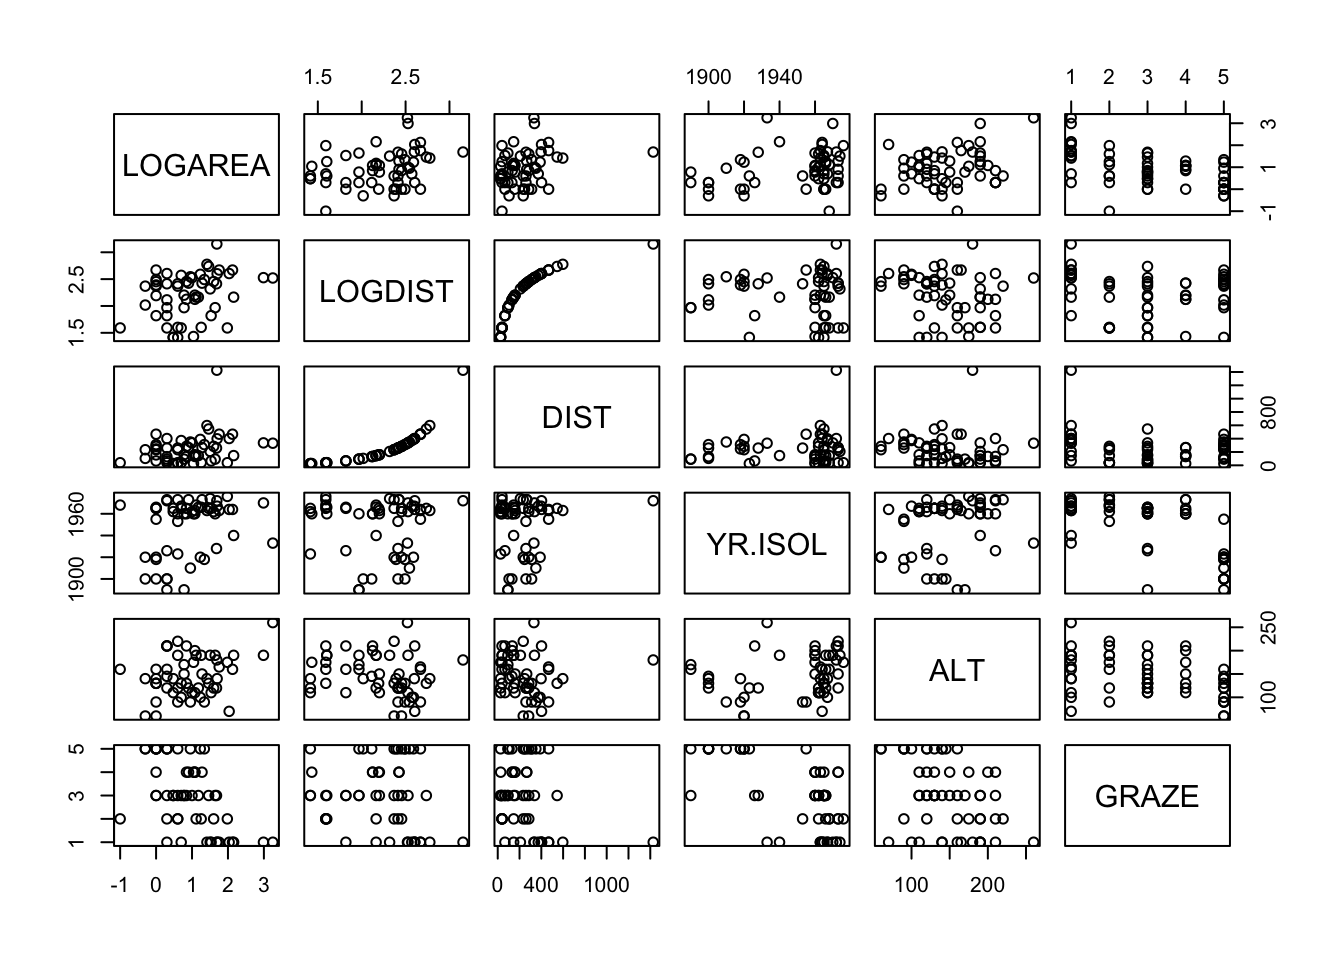
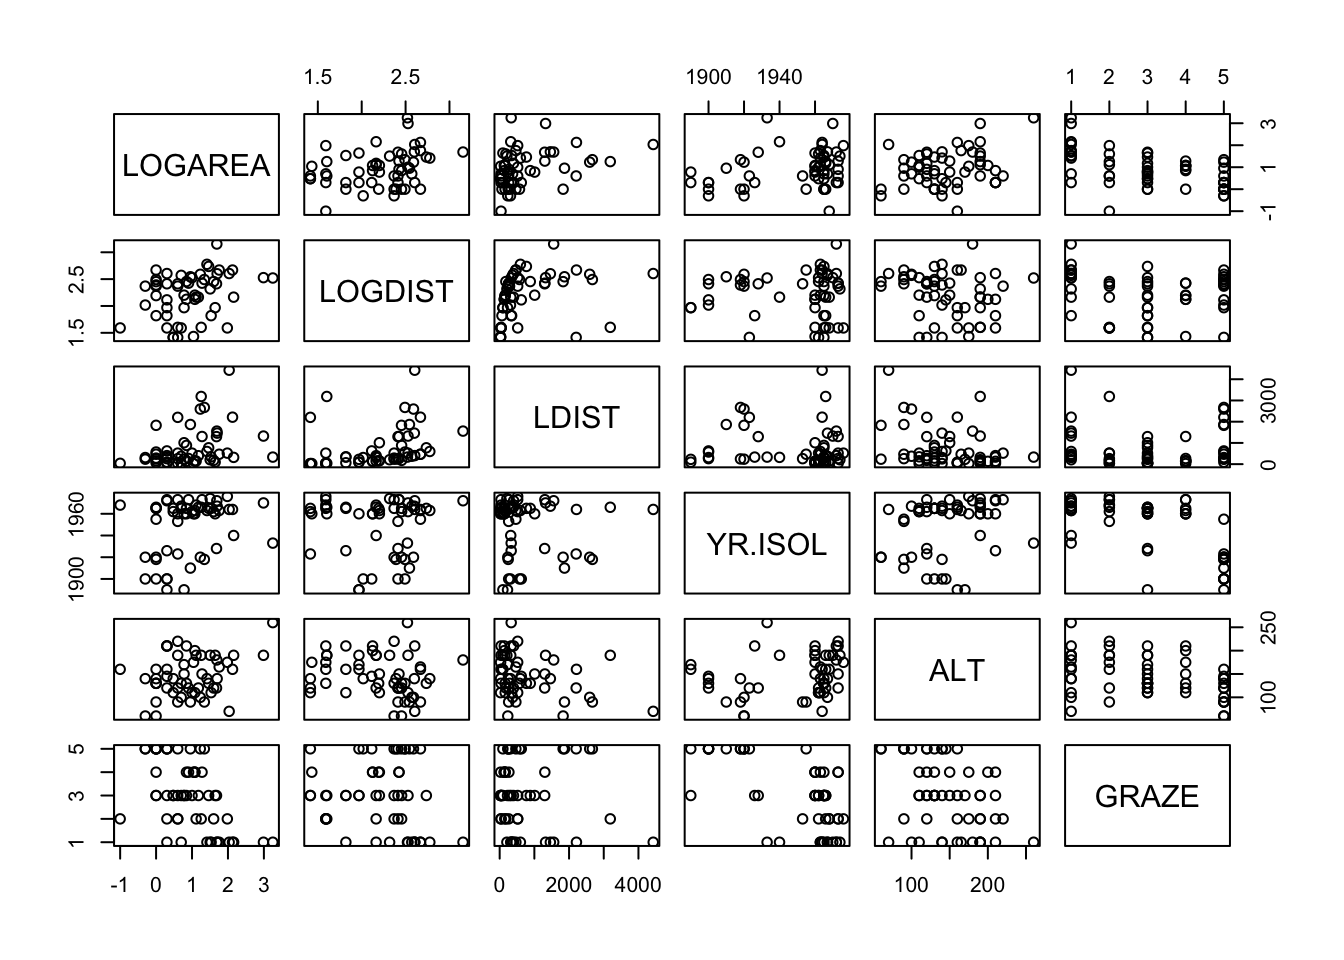
retry fixing Q9 GDE solutions

diff --git a/graphical_data_exploration_exercise_solutions.html b/graphical_data_exploration_exercise_solutions.html
@@ -704,14 +704,14 @@ $(document).ready(function () {
 <p> </p>
 <div class="sourceCode" id="cb7"><pre class="sourceCode r"><code class="sourceCode r"><span id="cb7-1"><a href="#cb7-1"></a><span class="co"># Vanilla pairs plot</span></span>
 <span id="cb7-2"><a href="#cb7-2"></a></span>
-<span id="cb7-3"><a href="#cb7-3"></a><span class="kw">pairs</span>(loyn[,<span class="kw">c</span>(<span class="st">&quot;LOGAREA&quot;</span>,<span class="st">&quot;LOGDIST&quot;</span>,<span class="st">&quot;DIST&quot;</span>,</span>
-<span id="cb7-4"><a href="#cb7-4"></a>               <span class="st">&quot;YR.ISOL&quot;</span>,<span class="st">&quot;ALT&quot;</span>,<span class="st">&quot;GRAZE&quot;</span>)])</span>
+<span id="cb7-3"><a href="#cb7-3"></a><span class="kw">pairs</span>(loyn[,<span class="kw">c</span>(<span class="st">&quot;LOGAREA&quot;</span>, <span class="st">&quot;LOGDIST&quot;</span>, <span class="st">&quot;LDIST&quot;</span>,</span>
+<span id="cb7-4"><a href="#cb7-4"></a>               <span class="st">&quot;YR.ISOL&quot;</span>, <span class="st">&quot;ALT&quot;</span>, <span class="st">&quot;GRAZE&quot;</span>)])</span>
 <span id="cb7-5"><a href="#cb7-5"></a></span>
 <span id="cb7-6"><a href="#cb7-6"></a><span class="co"># or first create a new dataframe and then use this </span></span>
 <span id="cb7-7"><a href="#cb7-7"></a><span class="co"># data frame with the pairs function</span></span>
 <span id="cb7-8"><a href="#cb7-8"></a></span>
-<span id="cb7-9"><a href="#cb7-9"></a>explan_vars &lt;-<span class="st"> </span>loyn[,<span class="kw">c</span>(<span class="st">&quot;LOGAREA&quot;</span>,<span class="st">&quot;LOGDIST&quot;</span>,<span class="st">&quot;DIST&quot;</span>,</span>
-<span id="cb7-10"><a href="#cb7-10"></a>               <span class="st">&quot;YR.ISOL&quot;</span>,<span class="st">&quot;ALT&quot;</span>,<span class="st">&quot;GRAZE&quot;</span>)]</span>
+<span id="cb7-9"><a href="#cb7-9"></a>explan_vars &lt;-<span class="st"> </span>loyn[,<span class="kw">c</span>(<span class="st">&quot;LOGAREA&quot;</span>, <span class="st">&quot;LOGDIST&quot;</span>, <span class="st">&quot;LDIST&quot;</span>,</span>
+<span id="cb7-10"><a href="#cb7-10"></a>               <span class="st">&quot;YR.ISOL&quot;</span>, <span class="st">&quot;ALT&quot;</span>, <span class="st">&quot;GRAZE&quot;</span>)]</span>
 <span id="cb7-11"><a href="#cb7-11"></a><span class="kw">pairs</span>(explan_vars)</span></code></pre></div>
 <p><img src="graphical_data_exploration_exercise_solutions_files/figure-html/Q9a-1.png" width="672" /></p>
 <p> </p>
@@ -729,14 +729,14 @@ $(document).ready(function () {
 <span id="cb8-12"><a href="#cb8-12"></a>}</span>
 <span id="cb8-13"><a href="#cb8-13"></a></span>
 <span id="cb8-14"><a href="#cb8-14"></a><span class="co"># then use the panel.cor function when we use pairs</span></span>
-<span id="cb8-15"><a href="#cb8-15"></a><span class="kw">pairs</span>(loyn[,<span class="kw">c</span>(<span class="st">&quot;LOGAREA&quot;</span>,<span class="st">&quot;LOGDIST&quot;</span>,<span class="st">&quot;DIST&quot;</span>,</span>
+<span id="cb8-15"><a href="#cb8-15"></a><span class="kw">pairs</span>(loyn[,<span class="kw">c</span>(<span class="st">&quot;LOGAREA&quot;</span>,<span class="st">&quot;LOGDIST&quot;</span>, <span class="st">&quot;LDIST&quot;</span>,</span>
 <span id="cb8-16"><a href="#cb8-16"></a>               <span class="st">&quot;YR.ISOL&quot;</span>,<span class="st">&quot;ALT&quot;</span>,<span class="st">&quot;GRAZE&quot;</span>)],</span>
 <span id="cb8-17"><a href="#cb8-17"></a>      <span class="dt">upper.panel =</span> panel.cor)</span></code></pre></div>
 <p><img src="graphical_data_exploration_exercise_solutions_files/figure-html/Q9b-1.png" width="672" /></p>
 <p> </p>
 <p>10. Are there any clear relationships between the response variable (<code>ABUND</code>) and individual explanatory variables? Use the appropriate plotting functions (<code>plot()</code>, <code>boxplot()</code>, <code>pairs()</code>) to visualise these relationships.</p>
 <p> </p>
-<div class="sourceCode" id="cb9"><pre class="sourceCode r"><code class="sourceCode r"><span id="cb9-1"><a href="#cb9-1"></a><span class="kw">pairs</span>(loyn[,<span class="kw">c</span>(<span class="st">&quot;ABUND&quot;</span>,<span class="st">&quot;LOGAREA&quot;</span>,<span class="st">&quot;LOGDIST&quot;</span>,<span class="st">&quot;DIST&quot;</span>,</span>
+<div class="sourceCode" id="cb9"><pre class="sourceCode r"><code class="sourceCode r"><span id="cb9-1"><a href="#cb9-1"></a><span class="kw">pairs</span>(loyn[,<span class="kw">c</span>(<span class="st">&quot;ABUND&quot;</span>,<span class="st">&quot;LOGAREA&quot;</span>,<span class="st">&quot;LOGDIST&quot;</span>, <span class="st">&quot;LDIST&quot;</span>,</span>
 <span id="cb9-2"><a href="#cb9-2"></a>        <span class="st">&quot;YR.ISOL&quot;</span>,<span class="st">&quot;ALT&quot;</span>,<span class="st">&quot;GRAZE&quot;</span>)],</span>
 <span id="cb9-3"><a href="#cb9-3"></a>        <span class="dt">lower.panel =</span> panel.cor)</span></code></pre></div>
 <p><img src="graphical_data_exploration_exercise_solutions_files/figure-html/Q10a-1.png" width="672" /></p>
